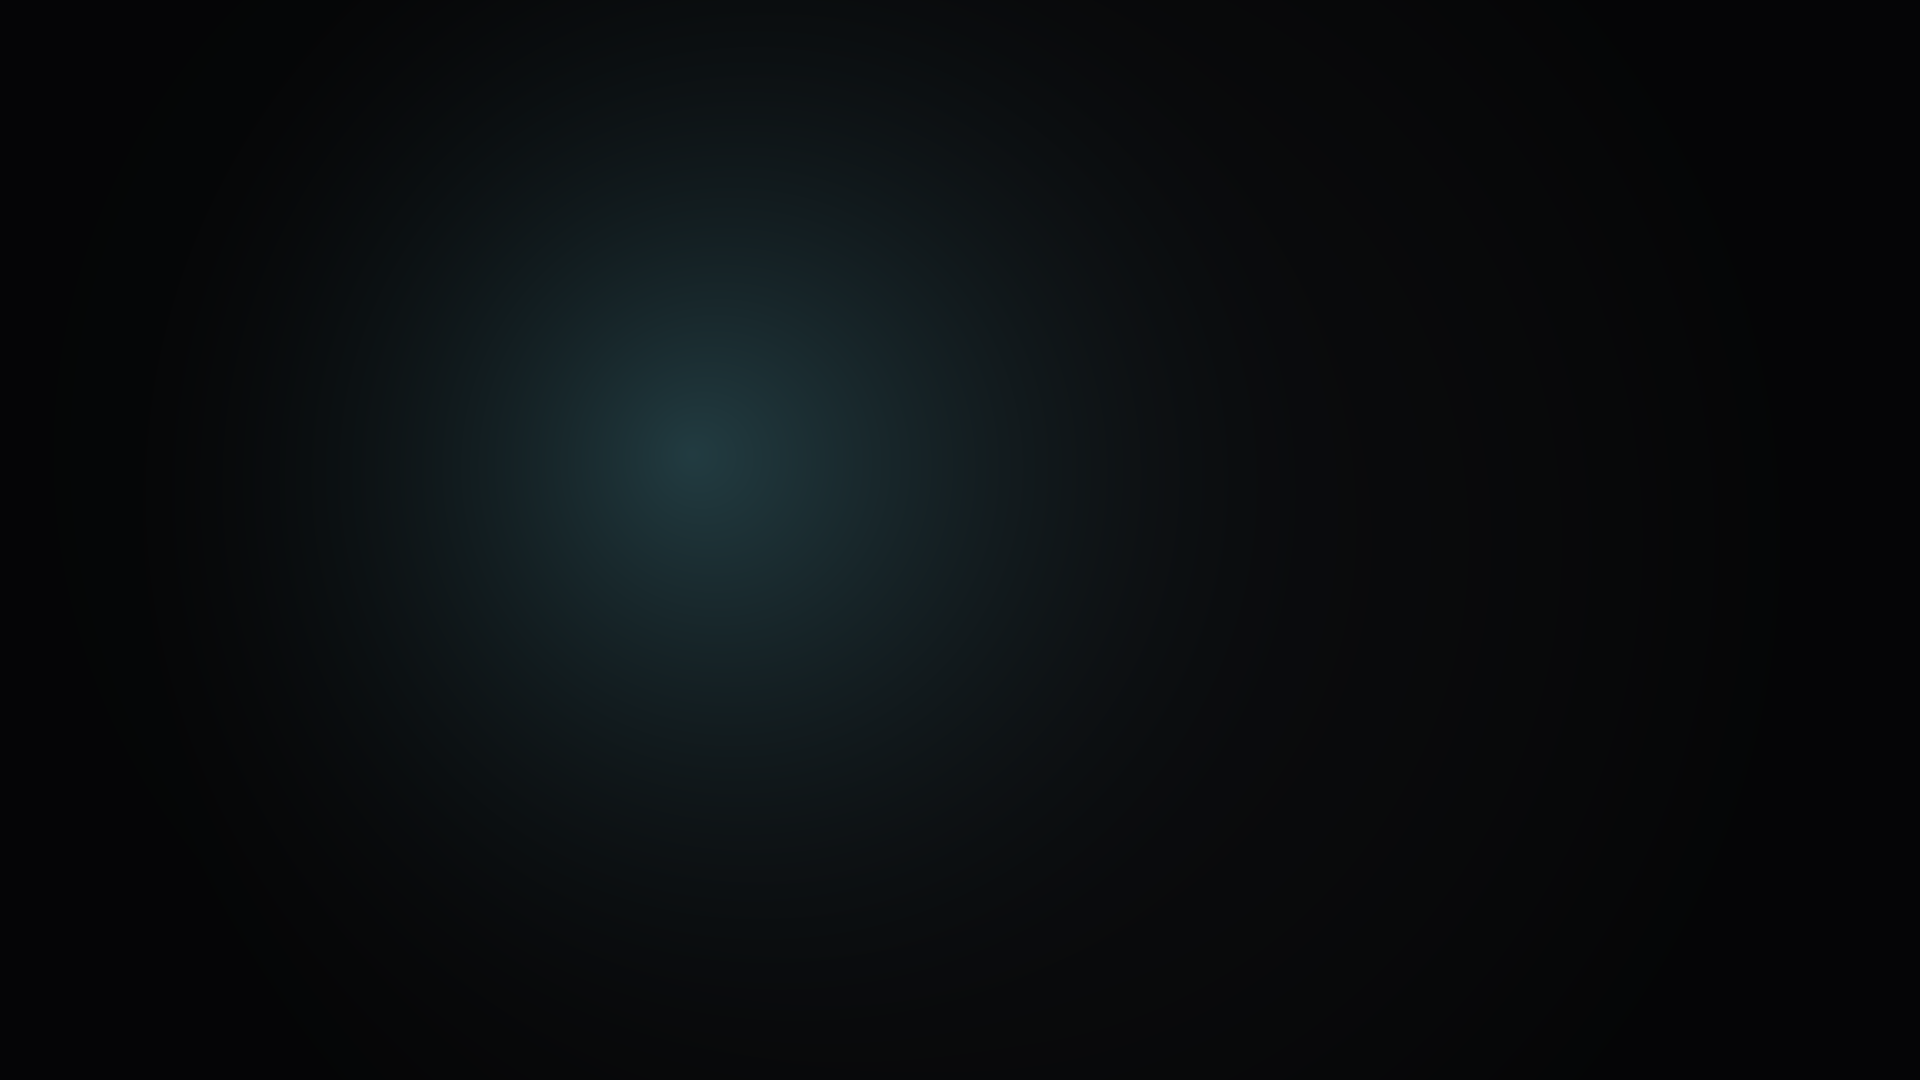
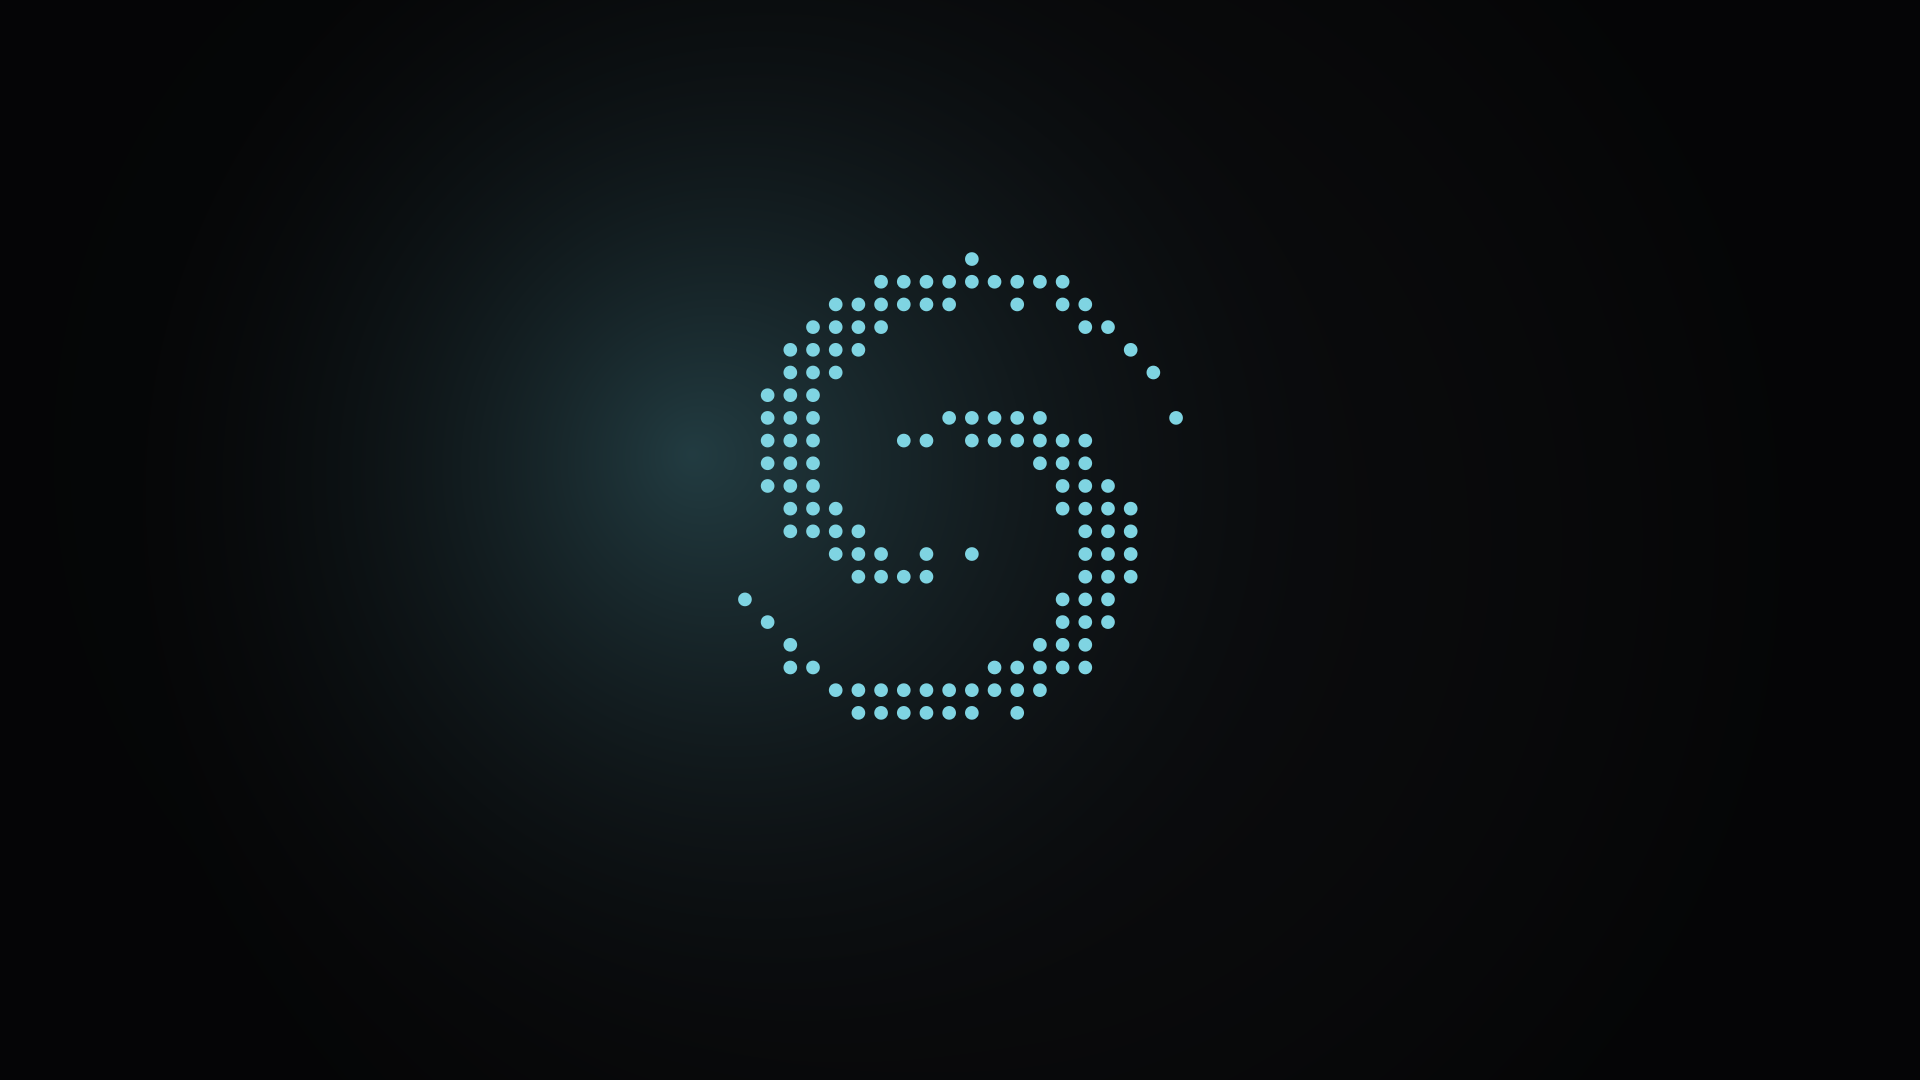
Make the Braille spiral the Vacuum mark, and add screenshots
The mark is stored exactly once, in logo.txt -- the file the shell greeting
prints. The wallpaper does not carry a second copy: gen-wallpaper.py reads
that same file and decodes the Braille back into the dot grid it already
is, two dots wide and four tall per cell, with the codepoint's low eight
bits saying which are lit. There is only one drawing, so the terminal and
the desktop cannot drift apart.

/etc/issue keeps its plain-dot version deliberately. It is shown on the
kernel console, whose built-in font carries no Braille glyphs, so the mark
would land there as blanks or blocks.

vacuum-shot adds screenshots on Print, with Shift+Print for a dragged
region and Alt+Print for the focused window. It is backed by scrot: 139 KB,
and its only real dependency is imlib2, which feh already pulled in. Files
are named for the moment they were taken and the notification carries the
name, because a screenshot you cannot find afterwards may as well not have
been taken; XDG_PICTURES_DIR is honoured rather than assuming an English
directory name.

Verified by rendering: Braille draws correctly in st, the wallpaper matches
the reference, and pressing Print through Openbox produces a real 1366x768
PNG in the configured pictures directory.

Changed region(s): [[0.375, 0.2444, 0.5938, 0.55], [0.4062, 0.3667, 0.5938, 0.6722], [0.375, 0.55, 0.4062, 0.5806]]

diff --git a/mk/gen-wallpaper.py b/mk/gen-wallpaper.py
@@ -1,14 +1,20 @@
 #!/usr/bin/env python3
 """Generate the Vacuum wallpaper as a PNG, with no third-party libraries.
 
-The image is a near-black field with one off-centre accent glow and a soft
-vignette -- the "dark minimalism" look, and it compresses to a few tens of
-kilobytes because the gradient is smooth.
+A near-black field with one off-centre accent glow and a soft vignette,
+with the Vacuum mark set in the middle as a field of dots.
+
+The mark is not drawn twice. It is read out of logo.txt -- the same file
+the shell greeting prints -- by decoding the Braille cells back into the
+dot grid they already are: each cell is two dots wide and four tall, and
+the codepoint's low eight bits say which of them are lit. So the wallpaper
+and the terminal cannot drift apart, because there is only one drawing.
 
     ./mk/gen-wallpaper.py rootfs/usr/share/vacuum/wallpaper.png [W H]
 """
 
 import math
+import os
 import struct
 import sys
 import zlib
@@ -22,6 +28,51 @@ GLOW_RADIUS = 0.62
 GLOW_STRENGTH = 0.30
 VIGNETTE = 0.55
 
+# The mark: how wide it sits on the canvas, and how big each dot is
+# relative to the spacing between them.
+LOGO = os.path.join(os.path.dirname(__file__), "..", "rootfs", "usr", "share",
+                    "vacuum", "logo.txt")
+MARK_WIDTH = 0.26
+MARK_Y = 0.46
+DOT_RADIUS = 0.30
+DOT_COLOR = (0x7F, 0xD4, 0xE2)
+
+
+def braille_dots(path):
+    """Return (dots, width, height) as a set of lit (x, y) grid positions.
+
+    Braille cells number their dots down the left column then down the
+    right, with the last two out of order for historical reasons -- hence
+    the explicit table rather than arithmetic.
+    """
+    bit_xy = {0: (0, 0), 1: (0, 1), 2: (0, 2), 3: (1, 0),
+              4: (1, 1), 5: (1, 2), 6: (0, 3), 7: (1, 3)}
+    rows = []
+    with open(path, encoding="utf-8") as fh:
+        for line in fh:
+            run = ""
+            best = ""
+            for ch in line:
+                if "\u2800" <= ch <= "\u28ff":
+                    run += ch
+                else:
+                    best, run = (run if len(run) > len(best) else best), ""
+            best = run if len(run) > len(best) else best
+            if best:
+                rows.append(best)
+    if not rows:
+        return set(), 0, 0
+
+    width = max(len(r) for r in rows)
+    dots = set()
+    for cell_y, row in enumerate(rows):
+        for cell_x, ch in enumerate(row):
+            bits = ord(ch) - 0x2800
+            for bit, (dx, dy) in bit_xy.items():
+                if bits & (1 << bit):
+                    dots.add((cell_x * 2 + dx, cell_y * 4 + dy))
+    return dots, width * 2, len(rows) * 4
+
 
 def chunk(tag, data):
     return (
@@ -34,6 +85,15 @@ def chunk(tag, data):
 
 def render(width, height):
     """Return the raw scanlines (filter byte + RGB triples) for the image."""
+    dots, dw, dh = braille_dots(LOGO)
+    # Grid spacing chosen so the mark occupies MARK_WIDTH of the canvas.
+    step = (MARK_WIDTH * width / dw) if dw else 0.0
+    dot_r = DOT_RADIUS * step
+    mark_x = (width - dw * step) / 2.0
+    mark_y = MARK_Y * height - dh * step / 2.0
+    # Only test pixels that could possibly be inside a dot.
+    reach = dot_r * 2.2
+
     cx, cy = GLOW_X * width, GLOW_Y * height
     # Normalise distances against the half-diagonal so the look is
     # resolution-independent.
@@ -55,8 +115,30 @@ def render(width, height):
             v = math.hypot(x - width / 2.0, vy) / vign_r
             shade = 1.0 - VIGNETTE * min(1.0, v) ** 2
 
-            for base, acc in zip(BG, ACCENT):
-                c = (base + (acc - base) * g) * shade
+            px = [(base + (acc - base) * g) * shade
+                  for base, acc in zip(BG, ACCENT)]
+
+            # The mark, drawn over the field. Coverage falls off across one
+            # pixel at the rim so the dots are not visibly stair-stepped at
+            # this size -- there is no anti-aliasing to inherit here.
+            if step:
+                gx = (x - mark_x) / step
+                gy = (y - mark_y) / step
+                best = 0.0
+                for ddx in (-1, 0, 1):
+                    for ddy in (-1, 0, 1):
+                        key = (int(gx) + ddx, int(gy) + ddy)
+                        if key not in dots:
+                            continue
+                        d = math.hypot((gx - key[0] - 0.5) * step,
+                                       (gy - key[1] - 0.5) * step)
+                        if d <= reach:
+                            a = min(1.0, max(0.0, (dot_r - d) + 0.5))
+                            best = max(best, a)
+                if best > 0.0:
+                    px = [p + (t - p) * best for p, t in zip(px, DOT_COLOR)]
+
+            for c in px:
                 row.append(max(0, min(255, int(c + 0.5))))
         rows += row
     return bytes(rows)

diff --git a/README.md b/README.md
@@ -228,6 +228,9 @@ machine that has just come up.
 | `Alt`+`Tab` | Cycle windows |
 | `Super`+`F1` | Show or hide the side HUD |
 | `Super`+`k` | Keyboard backlight on or off |
+| `Print` | Screenshot the whole screen |
+| `Shift`+`Print` | Screenshot a region you drag |
+| `Alt`+`Print` | Screenshot the focused window |
 | `Super`+`Shift`+`e` | Log out |
 
 The volume and keyboard-brightness keys are bound too, where the machine
@@ -364,6 +367,7 @@ and it appears in the image; there is no other mechanism.
 | `vacuum-vol` | volume, for the panel and the media keys |
 | `vacuum-sound` | why there is no sound, and `--fix` for it |
 | `vacuum-kbd` | keyboard backlight, and `--probe` for what the machine has |
+| `vacuum-shot` | screenshots, bound to `Print` |
 | `vacuum-update` | update an installed system from this repository |
 | `vacuum-install` | install to disk (wraps `void-installer`) |
 | `vacuum-battery-warn` | tint2's low-battery hook, called by the panel |
@@ -502,6 +506,25 @@ access to every input device on the machine, i.e. to every keystroke typed
 on it, which is a great deal to hand out for the sake of a backlight.
 `video` is already in the set `void-installer` gives a new user, so this
 works on an existing install with nothing to add.
+
+## The mark
+
+The Vacuum mark is a Braille drawing, and it is stored exactly once — in
+`rootfs/usr/share/vacuum/logo.txt`, the file the shell greeting prints.
+
+The wallpaper does not contain a second copy of it. `mk/gen-wallpaper.py`
+reads that same file and decodes the Braille back into the dot grid it
+already is: every cell is two dots wide and four tall, and the low eight
+bits of the codepoint say which of them are lit. So the terminal and the
+desktop cannot drift apart, because there is only one drawing to change.
+
+```sh
+./mk/gen-wallpaper.py rootfs/usr/share/vacuum/wallpaper.png 1920 1080
+```
+
+`/etc/issue` keeps its plain-dot version on purpose. It is shown on the
+kernel console, whose built-in font has no Braille glyphs at all, so the
+mark would arrive there as a row of blanks or blocks.
 
 ## Palette
 
